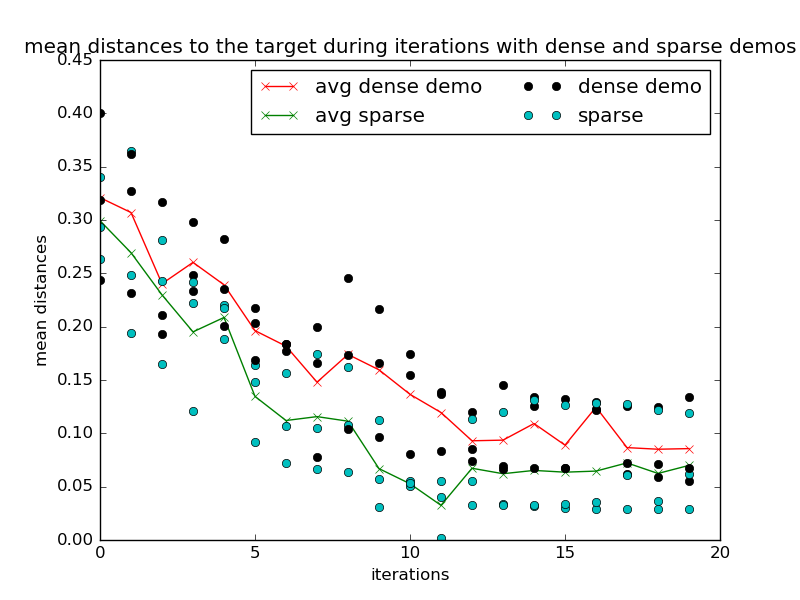
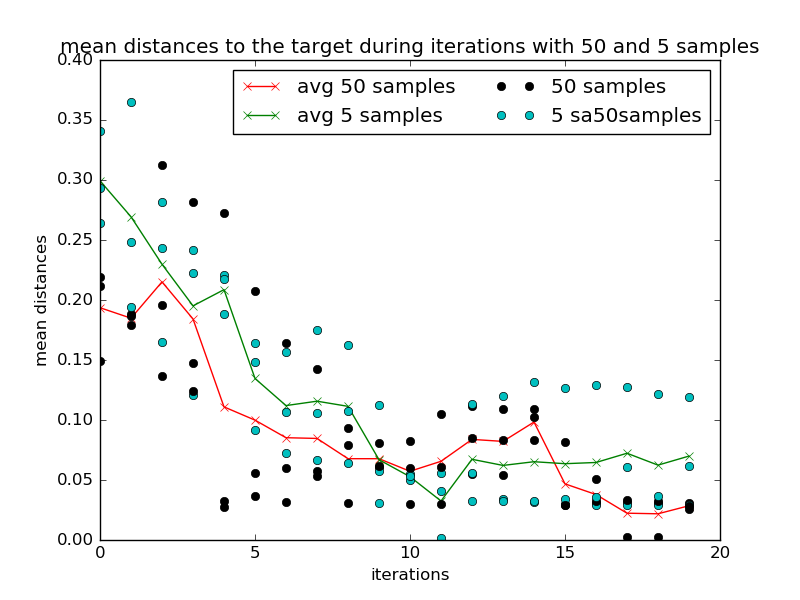
fixed bug in mdgps pos body offset

diff --git a/python/gps/gps_main.py b/python/gps/gps_main.py
@@ -53,10 +53,10 @@ class GPSMain(object):
 
 		if 'ioc' in config['algorithm'] and config['algorithm']['ioc']:
 			# demo_file = self._data_files_dir + 'demos.pkl'
-			# if config['common']['dense']:
-			demo_file = self._hyperparams['common']['experiment_dir'] + 'data_files/' + 'demos.pkl' # for mdgps experiment
-			# else:
-				# demo_file = self._hyperparams['common']['experiment_dir'] + 'data_files/' + 'demos_sparse.pkl'
+			if not config['common']['nn_demo']:
+				demo_file = self._hyperparams['common']['experiment_dir'] + 'data_files/' + 'demos_LG.pkl' # for mdgps experiment
+			else:
+				demo_file = self._hyperparams['common']['experiment_dir'] + 'data_files/' + 'demos_nn.pkl'
 			demos = self.data_logger.unpickle(demo_file)
 			if demos is None:
 			  self.demo_gen = GenDemo(config)
@@ -319,7 +319,7 @@ class GPSMain(object):
 			)
 		if 'no_sample_logging' in self._hyperparams['common']:
 			return
-		if itr == self.algorithm._hyperparams['iterations']: # Just save the last iteration of the algorithm file
+		if itr == self.algorithm._hyperparams['iterations'] - 1: # Just save the last iteration of the algorithm file
 			self.data_logger.pickle(
 				self._data_files_dir + ('algorithm_itr_%02d.pkl' % itr),
 				copy.copy(self.algorithm)
@@ -379,15 +379,16 @@ class GPSMain(object):
 						)
 					samples.append(sample)
 		target_position = agent_config['target_end_effector'][:3]
-		dists_to_target = np.zeros(M)
+		dists_to_target = np.zeros(len(pol_conditions)*M*N)
 		ioc_conditions = []
 		for i in xrange(len(samples)):
 			sample_end_effector = samples[i].get(END_EFFECTOR_POINTS)
 			# dists_to_target[i] = np.amin(np.sqrt(np.sum((demo_end_effector[:, :3] - target_position.reshape(1, -1))**2, axis = 1)), axis = 0)
 			# Just choose the last time step since it may become unstable after achieving the minimum point.
+			# import pdb; pdb.set_trace()
 			dists_to_target[i] = np.sqrt(np.sum((sample_end_effector[:, :3] - target_position.reshape(1, -1))**2, axis = 1))[-1]
-			ioc_conditions.append(agent_config['pos_body_offset'][i][:2])
-		good_indicators = (dists_to_target <= agent_config['success_upper_bound']).tolist()
+			ioc_conditions.append(pol_conditions[i/(M*N)][(i % (M*N))/N][:2])
+		good_indicators = (dists_to_target <= 0.1).tolist()
 		good_indices = [i for i in xrange(len(good_indicators)) if good_indicators[i]]
 		good_dists = []
 		bad_dists = []
@@ -395,12 +396,12 @@ class GPSMain(object):
 		failed_conditions = []
 		exp_dir = self._data_files_dir.replace("data_files", "")
 		for i in good_indices:
-			good_dists.append(dists_to_target[i])
-			sample_conditions.append(agent_config['pos_body_offset'][i][:2])
+			good_dists.append(dists_to_target[i]) # Assume N = 1
+			sample_conditions.append(ioc_conditions[i])
 		for i in xrange(len(samples)):
 			if i not in good_indices:
 				bad_dists.append(dists_to_target[i])
-				failed_conditions.append(agent_config['pos_body_offset'][i][:2])
+				failed_conditions.append(ioc_conditions[i])
 		
 		from matplotlib.patches import Rectangle
 
@@ -605,17 +606,20 @@ def main():
 		from gps.algorithm.policy.lin_gauss_init import init_lqr
 
 		mean_dists_global_dict, mean_dists_no_global_dict, success_rates_global_dict, \
-				success_rates_no_global_dict = {}, {}, {}, {}
+				success_rates_no_global_dict, mean_dists_global_dict, mean_dists_no_global_dict \
+				 = {}, {}, {}, {}, {}, {}
 		for itr in xrange(3):
 			random.seed(itr)
 			np.random.seed(itr)
-			hyperparams = imp.load_source('hyperparams', hyperparams_file)
+			exp_dir_classic = exp_dir.replace('on_global', 'on_classic')
+			hyperparams_file_classic = exp_dir_classic + 'hyperparams.py'
+			hyperparams = imp.load_source('hyperparams', hyperparams_file_classic)
 			# hyperparams.config['algorithm']['init_traj_distr']['type'] = init_lqr
 			# hyperparams.config['algorithm']['global_cost'] = True
-			# hyperparams.config['common']['dense'] = True
-			hyperparams.config['common']['data_files_dir'] = exp_dir + 'data_files_50samples_%d' % itr + '/'
-			if not os.path.exists(exp_dir + 'data_files_50samples_%d' % itr + '/'):
-				os.makedirs(exp_dir + 'data_files_50samples_%d' % itr + '/')
+			hyperparams.config['common']['nn_demo'] = True
+			hyperparams.config['common']['data_files_dir'] = exp_dir_classic + 'data_files_nn_%d' % itr + '/'
+			if not os.path.exists(exp_dir_classic + 'data_files_nn_%d' % itr + '/'):
+				os.makedirs(exp_dir_classic + 'data_files_nn_%d' % itr + '/')
 			# hyperparams.config['common']['data_files_dir'] = exp_dir + 'data_files_no_demo_ini_%d' % itr + '/'
 			# if not os.path.exists(exp_dir + 'data_files_no_demo_ini_%d' % itr + '/'):
 			# 	os.makedirs(exp_dir + 'data_files_no_demo_ini_%d' % itr + '/')
@@ -654,61 +658,92 @@ def main():
 			# # plt.ylabel('length')
 			# plt.savefig(exp_dir + 'distribution_of_demo_conditions_seed.png')
 			# plt.close()
+			hyperparams = imp.load_source('hyperparams', hyperparams_file_classic)
+			# hyperparams.config['algorithm']['init_traj_distr']['type'] = init_lqr
+			# hyperparams.config['algorithm']['global_cost'] = True
+			hyperparams.config['common']['nn_demo'] = False
+			hyperparams.config['common']['data_files_dir'] = exp_dir_classic + 'data_files_LG_%d' % itr + '/'
+			if not os.path.exists(exp_dir_classic + 'data_files_LG_%d' % itr + '/'):
+				os.makedirs(exp_dir_classic + 'data_files_LG_%d' % itr + '/')
+			# hyperparams.config['common']['data_files_dir'] = exp_dir + 'data_files_no_demo_ini_%d' % itr + '/'
+			# if not os.path.exists(exp_dir + 'data_files_no_demo_ini_%d' % itr + '/'):
+			# 	os.makedirs(exp_dir + 'data_files_no_demo_ini_%d' % itr + '/')
+			gps_classic = GPSMain(hyperparams.config)
+			pol_iter = gps_global.algorithm._hyperparams['iterations']
+			# for i in xrange(pol_iter):
+			if hyperparams.config['gui_on']:
+				gps_classic.run()
+				# gps_global.test_policy(itr=i, N=compare_costs)
+				plt.close()
+			else:
+				gps_classic.run()
+				# gps_global.test_policy(itr=i, N=compare_costs)
+				plt.close()
+			mean_dists_classic_dict[itr], success_rates_classic_dict[itr] = gps_classic.measure_distance_and_success()
+
 
 			hyperparams = imp.load_source('hyperparams', hyperparams_file)
 			# hyperparams.config['algorithm']['global_cost'] = False
-			# hyperparams.config['common']['dense'] = False
+			hyperparams.config['common']['nn_demo'] = False
 			hyperparams.config['common']['data_files_dir'] = exp_dir + 'data_files_global_%d' % itr + '/' #use global as sparse demos
 			if not os.path.exists(exp_dir + 'data_files_global_%d' % itr + '/'):
 				os.makedirs(exp_dir + 'data_files_global_%d' % itr + '/')
 			gps = GPSMain(hyperparams.config)
 			pol_iter = gps.algorithm._hyperparams['iterations']
 			# for i in xrange(pol_iter):
-			# if hyperparams.config['gui_on']:
-			# 	gps.run()
-			# 	# gps.test_policy(itr=i, N=compare_costs)
-			# 	plt.close()
-			# else:
-			# 	gps.run()
-			# 	# gps.test_policy(itr=i, N=compare_costs)
+			if hyperparams.config['gui_on']:
+				gps.run()
+				# gps.test_policy(itr=i, N=compare_costs)
+				plt.close()
+			else:
+				gps.run()
+				# gps.test_policy(itr=i, N=compare_costs)
 			mean_dists_no_global_dict[itr], success_rates_no_global_dict[itr] = gps.measure_distance_and_success()
 
 		plt.close('all')
 		avg_dists_global = [float(sum(mean_dists_global_dict[i][j] for i in xrange(3)))/3 for j in xrange(pol_iter)]
 		avg_succ_rate_global = [float(sum(success_rates_global_dict[i][j] for i in xrange(3)))/3 for j in xrange(pol_iter)]
+		avg_dists_classic = [float(sum(mean_dists_classic_dict[i][j] for i in xrange(3)))/3 for j in xrange(pol_iter)]
+		avg_succ_rate_classic = [float(sum(success_rates_classic_dict[i][j] for i in xrange(3)))/3 for j in xrange(pol_iter)]
 		avg_dists_no_global = [float(sum(mean_dists_no_global_dict[i][j] for i in xrange(3)))/3 for j in xrange(pol_iter)]
 		avg_succ_rate_no_global = [float(sum(success_rates_no_global_dict[i][j] for i in xrange(3)))/3 for j in xrange(pol_iter)]
 		plt.plot(range(pol_iter), avg_dists_global, '-x', color='red')
+		plt.plot(range(pol_iter), avg_dists_classic, '-x', color='blue')
 		plt.plot(range(pol_iter), avg_dists_no_global, '-x', color='green')
 		for i in xrange(3):
 			plt.plot(range(pol_iter), mean_dists_global_dict[i], 'ko')
+			plt.plot(range(pol_iter), mean_dists_classic_dict[i], 'yo')
 			plt.plot(range(pol_iter), mean_dists_no_global_dict[i], 'co')
 		# for i, txt in enumerate(avg_dists_global):
 		# 	plt.annotate(np.around(txt, decimals=2), (i, txt))
 		# for i, txt in enumerate(avg_dists_no_global):
 		# 	plt.annotate(np.around(txt, decimals=2), (i, txt))
-		plt.legend(['avg 50 samples', 'avg 5 samples', '50 samples', '5 sa50samples'], loc='upper right', ncol=2)
+		plt.legend(['avg nn demo', 'avg LG demo', 'avg on global', 'nn demo', 'LG demo', 'on global'], \
+						loc='upper right', ncol=3)
 		# plt.legend(['avg lqr', 'avg demo', 'init lqr', 'init demo'], loc='upper right', ncol=2)		
-		plt.title("mean distances to the target during iterations with 50 and 5 samples")
+		plt.title("mean distances to the target over time with nn and LG demo")
 		# plt.title("mean distances to the target during iterations with and without demo init")
 		plt.xlabel("iterations")
 		plt.ylabel("mean distances")
 		plt.savefig(exp_dir + 'mean_dists_during_iteration_comparison.png')
 		plt.close()
 		plt.plot(range(pol_iter), avg_succ_rate_global, '-x', color='red')
+		plt.plot(range(pol_iter), avg_succ_rate_classic, '-x', color='blue')
 		plt.plot(range(pol_iter), avg_succ_rate_no_global, '-x', color='green')
 		for i in xrange(3):
 			plt.plot(range(pol_iter), success_rates_global_dict[i], 'ko')
+			plt.plot(range(pol_iter), success_rates_classic_dict[i], 'yo')
 			plt.plot(range(pol_iter), success_rates_no_global_dict[i], 'co')
 		# for i, txt in enumerate(avg_succ_rate_global):
 		# 	plt.annotate(repr(txt*100) + "%", (i, txt))
 		# for i, txt in enumerate(avg_succ_rate_no_global):
 		# 	plt.annotate(repr(txt*100) + "%", (i, txt))
-		plt.legend(['avg 50 samples', 'avg 5 samples', '50 samples', '5 sa50samples'], loc='lower right', ncol=2)
+		plt.legend(['avg nn demo', 'avg LG demo', 'avg on global', 'nn demo', 'LG demo', 'on global'], \
+						loc='upper right', ncol=3)
 		# plt.legend(['avg lqr', 'avg demo', 'init lqr', 'init demo'], loc='upper right', ncol=2)
 		plt.xlabel("iterations")
 		plt.ylabel("success rate")
-		plt.title("success rates during iterations with 50 and 5 samples")
+		plt.title("success rates during iterations with with nn and LG demo")
 		# plt.title("success rates during iterations with and without demo initialization")
 		plt.savefig(exp_dir + 'success_rate_during_iteration_comparison.png')
 		plt.close()

diff --git a/experiments/mjc_mdgps_ioc_example/hyperparams.py b/experiments/mjc_mdgps_ioc_example/hyperparams.py
@@ -39,14 +39,17 @@ PR2_GAINS = np.array([3.09, 1.08, 0.393, 0.674, 0.111, 0.152, 0.098])
 
 BASE_DIR = '/'.join(str.split(gps_filepath, '/')[:-2])
 EXP_DIR = BASE_DIR + '/../experiments/mjc_mdgps_ioc_example/'
-DEMO_DIR = BASE_DIR + '/../experiments/mjc_peg_example/'
+# DEMO_DIR = BASE_DIR + '/../experiments/mjc_peg_example/'
+DEMO_DIR = BASE_DIR + '/../experiments/mjc_badmm_example/'
 
 common = {
     'experiment_name': 'my_experiment' + '_' + \
             datetime.strftime(datetime.now(), '%m-%d-%y_%H-%M'),
-    'demo_controller_file': DEMO_DIR + 'data_files/algorithm_itr_06.pkl',
+    # 'demo_controller_file': DEMO_DIR + 'data_files/algorithm_itr_06.pkl',
+    'demo_controller_file': DEMO_DIR + 'data_files/algorithm_itr_11.pkl',
     'conditions': 4,
     # 'dense': True # For dense/sparse demos experiment only
+    'nn_demo': False, # Use neural network demonstrations. For experiment only
 }
 
 agent = {
@@ -58,7 +61,7 @@ agent = {
     'substeps': 5,
     'conditions': common['conditions'],
     'pos_body_idx': np.array([1]),
-    'pos_body_offset': [np.array([-0.08, -0.08, 0]), np.array([-0.08, -0.08, 0]),
+    'pos_body_offset': [np.array([-0.08, -0.08, 0]), np.array([-0.08, 0.08, 0]),
                         np.array([0.08, 0.08, 0]), np.array([0.08, -0.08, 0])],
     'T': 100,
     'sensor_dims': SENSOR_DIMS,
@@ -67,20 +70,21 @@ agent = {
     'obs_include': [JOINT_ANGLES, JOINT_VELOCITIES, END_EFFECTOR_POINTS,
                     END_EFFECTOR_POINT_VELOCITIES],
     'camera_pos': np.array([0., 0., 2., 0., 0.2, 0.5]),
+    'target_end_effector': np.array([0.0, 0.3, -0.5, 0.0, 0.3, -0.2]),
 }
 
 demo_agent = {
     'type': AgentMuJoCo,
     'filename': './mjc_models/pr2_arm3d.xml',
     'x0': generate_x0(np.concatenate([np.array([0.1, 0.1, -1.54, -1.7, 1.54, -0.2, 0]),
-                      np.zeros(7)]), 40),
+                      np.zeros(7)]), 25),
     'dt': 0.05,
     'substeps': 5,
-    'conditions': 40,
-    'pos_body_idx': generate_pos_idx(40),
+    'conditions': 25,
+    'pos_body_idx': generate_pos_idx(25),
     # 'pos_body_offset': [np.array([0, 0.2, 0]), np.array([0, 0.1, 0]),
     #                     np.array([0, -0.1, 0]), np.array([0, -0.2, 0])],
-    'pos_body_offset': generate_pos_body_offset(40),
+    'pos_body_offset': generate_pos_body_offset(25),
     'T': 100,
     'sensor_dims': SENSOR_DIMS,
     'state_include': [JOINT_ANGLES, JOINT_VELOCITIES, END_EFFECTOR_POINTS,
@@ -96,7 +100,7 @@ demo_agent = {
 algorithm = {
     'type': AlgorithmMDGPS,
     'conditions': common['conditions'],
-    # 'learning_from_prior': True,
+    'learning_from_prior': True,
     'ioc' : True,
     'iterations': 20,
     'kl_step': 1.0,
@@ -106,9 +110,10 @@ algorithm = {
     'max_ent_traj': 1.0,
     'demo_distr_empest': True,
     # 'demo_cond': 15,
-    'num_demos': 3,
-    # 'synthetic_cost_samples': 100,
-    'synthetic_cost_samples': 0, # Remember to change back to 100 when done with the 50 samples exp
+    # 'num_demos': 3,
+    'num_demos': 1,
+    'synthetic_cost_samples': 100,
+    # 'synthetic_cost_samples': 0, # Remember to change back to 100 when done with the 50 samples exp
     'target_end_effector': np.array([0.0, 0.3, -0.5, 0.0, 0.3, -0.2]),
     'global_cost': True,
     'sample_on_policy': True,
@@ -197,7 +202,7 @@ algorithm['policy_prior'] = {
 
 config = {
     'iterations': algorithm['iterations'],
-    'num_samples': 50,
+    'num_samples': 5,
     'verbose_trials': 5,
     'verbose_policy_trials': 5,
     'agent': agent,

diff --git a/experiments/mjc_mdgps_example/hyperparams.py b/experiments/mjc_mdgps_example/hyperparams.py
@@ -53,7 +53,7 @@ agent = {
     'substeps': 5,
     'conditions': common['conditions'],
     'pos_body_idx': np.array([1]),
-    'pos_body_offset': [np.array([-0.08, -0.08, 0]), np.array([-0.08, -0.08, 0]),
+    'pos_body_offset': [np.array([-0.08, -0.08, 0]), np.array([-0.08, 0.08, 0]),
                         np.array([0.08, 0.08, 0]), np.array([0.08, -0.08, 0])],
     'T': 100,
     'sensor_dims': SENSOR_DIMS,

diff --git a/python/gps/algorithm/algorithm.py b/python/gps/algorithm/algorithm.py
@@ -235,7 +235,7 @@ class Algorithm(object):
         self.kl_div[self.iteration_count] = []
         self.dists_to_target[self.iteration_count] = []
         if self._hyperparams['global_cost']:
-            self.prev_cost = self.cost.copy()
+            self.previous_cost = self.cost.copy()
         else:
             self.previous_cost = []
         for m in range(self.M):
